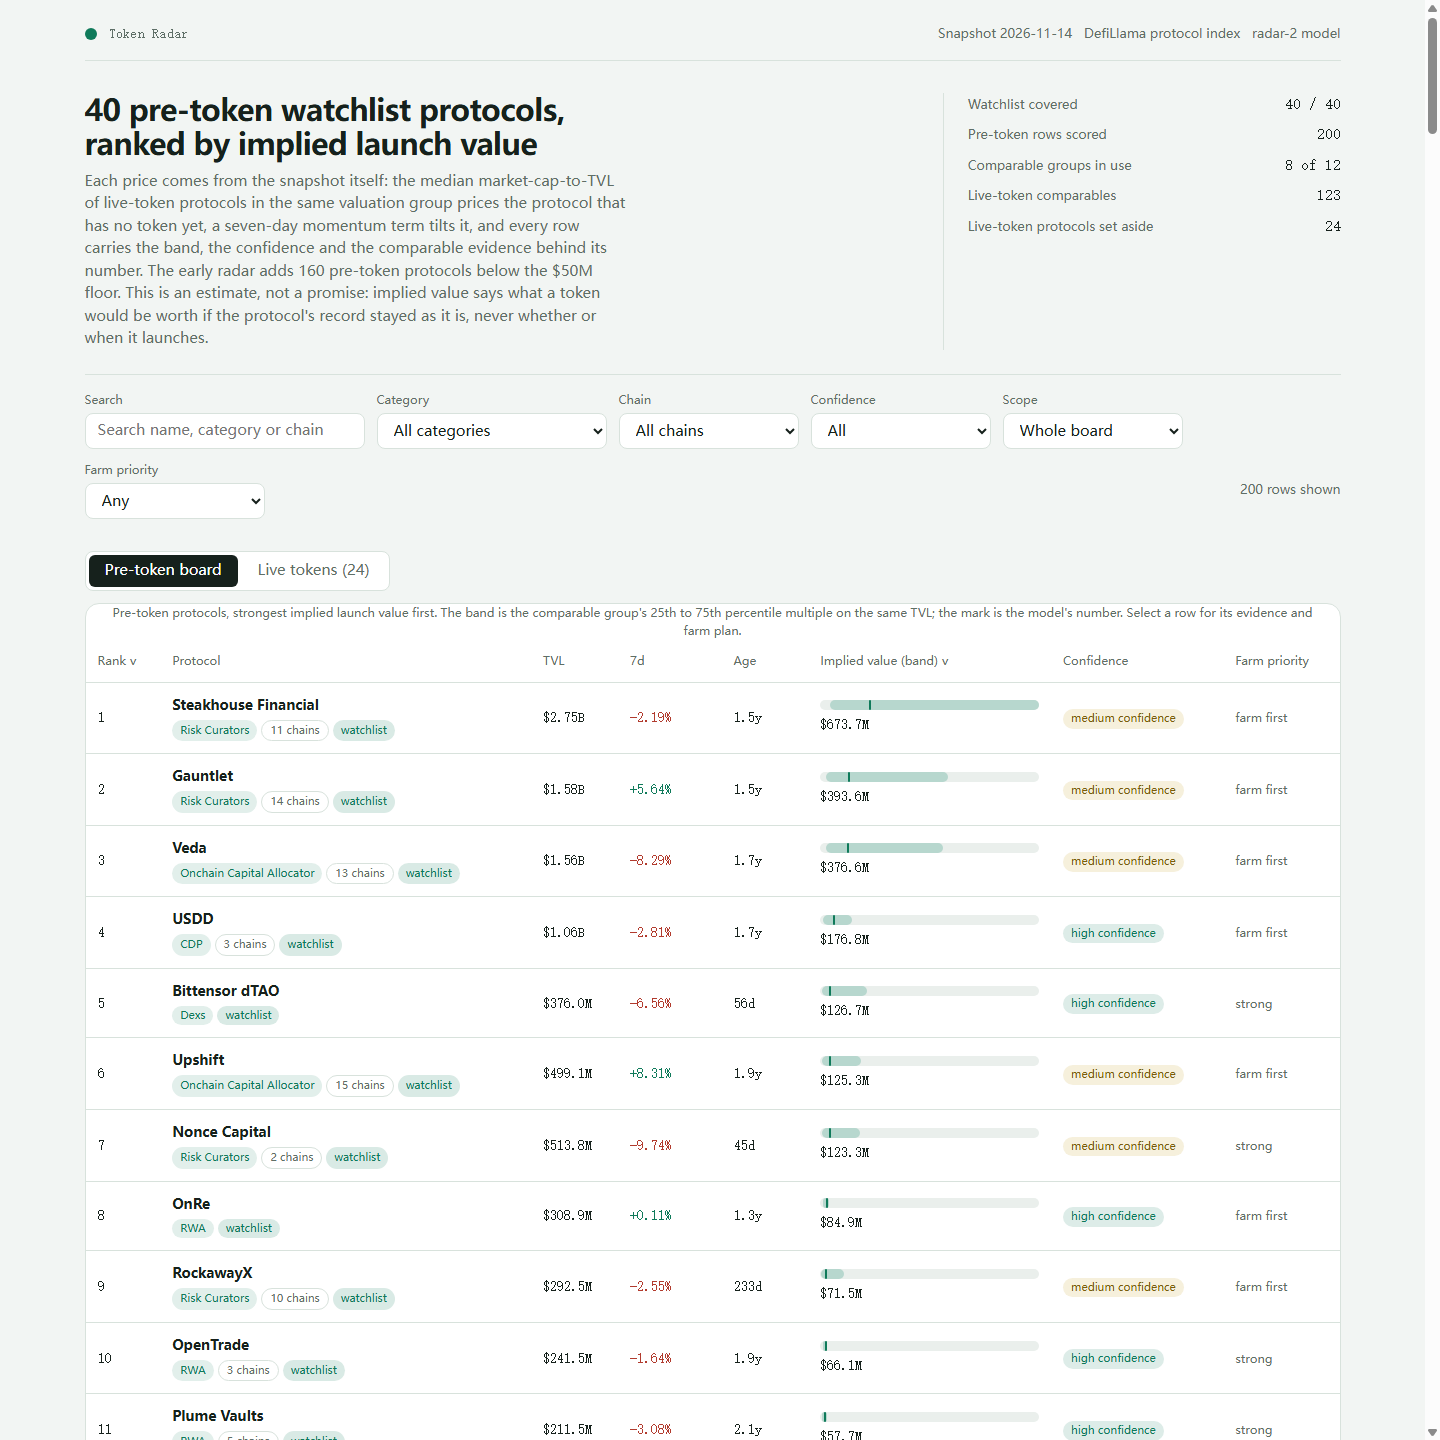
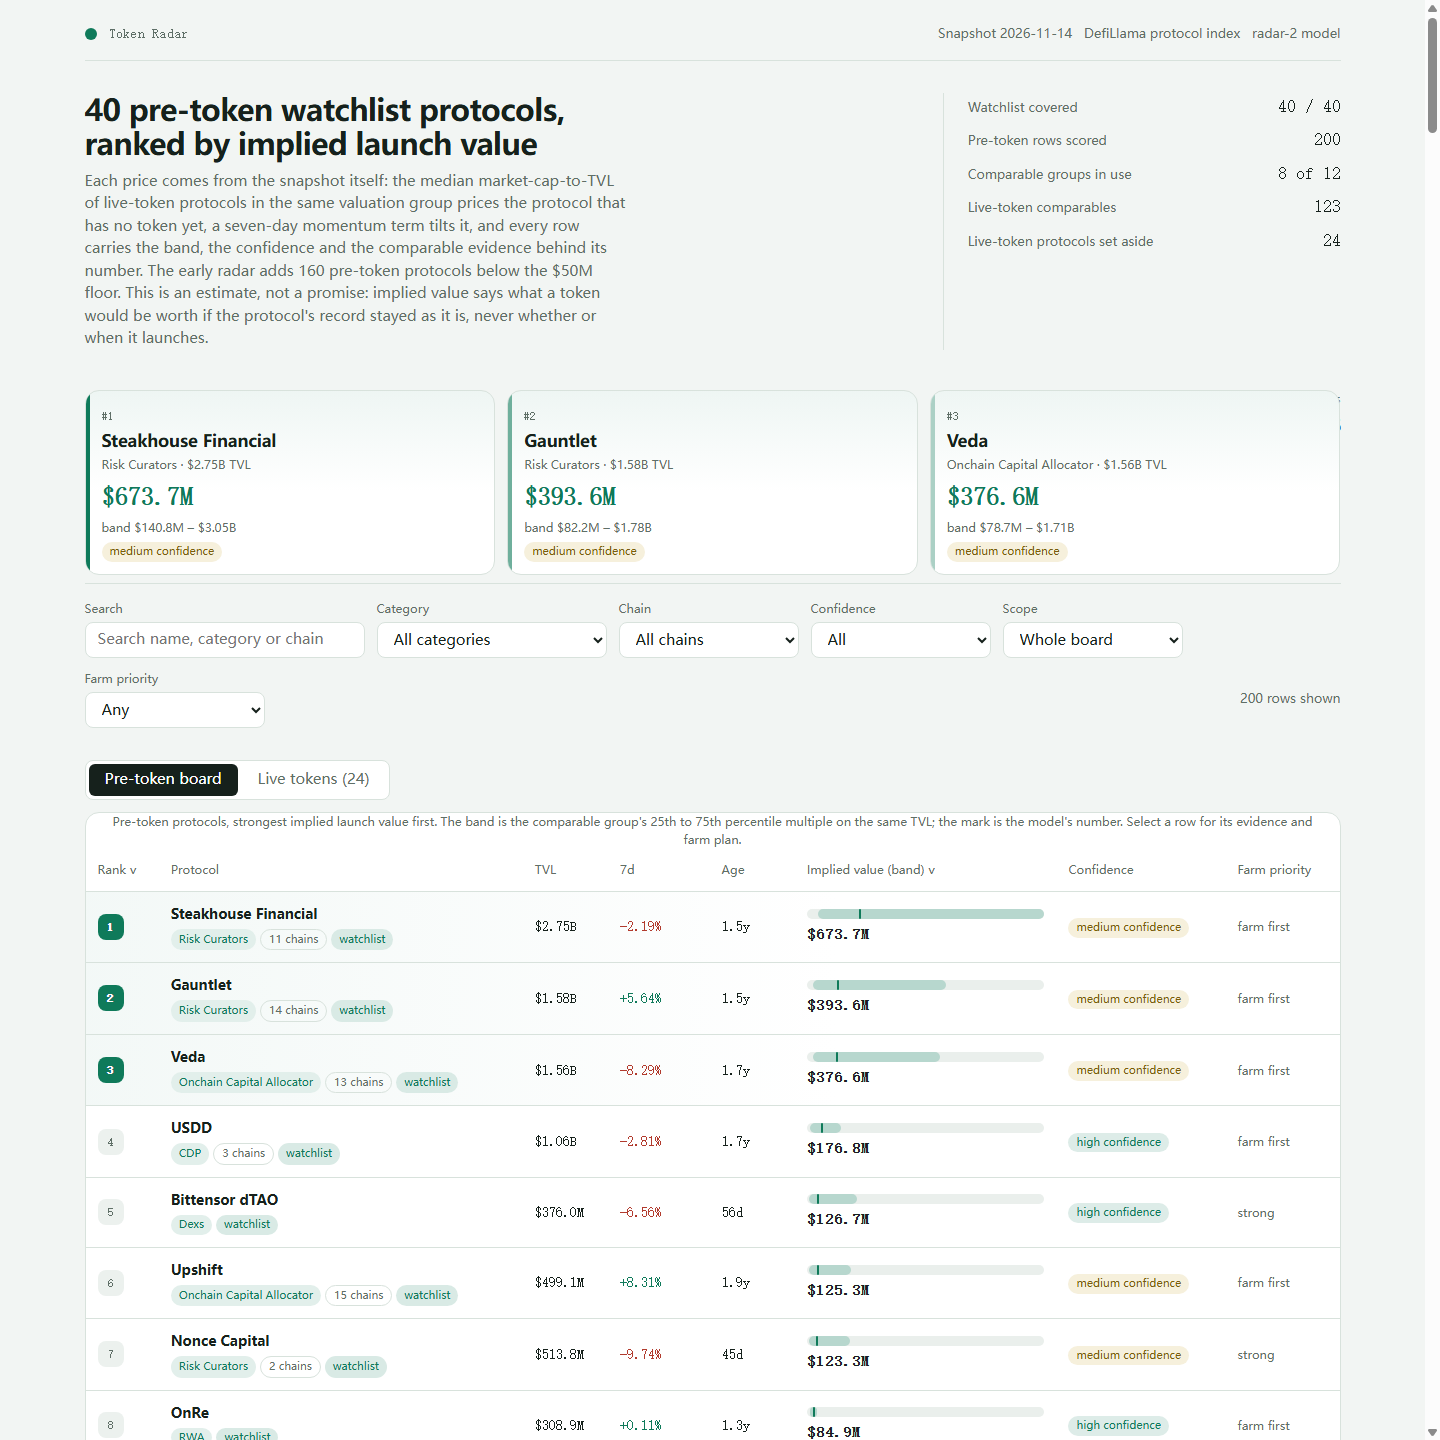
Podium hero cards, rank chips, and stronger number typography

diff --git a/dashboard/app.js b/dashboard/app.js
@@ -296,11 +296,12 @@
       var prioText = { first: 'farm first', strong: 'strong', watch: 'watch' }[r.farm_priority] || '';
       var tr = el('tr', {
         'data-selected': state.selected === r.slug ? 'true' : 'false',
+        'data-top': r.rank <= 3 ? 'true' : 'false',
         tabindex: '0',
         onclick: function () { openDetail(r.slug); },
         onkeydown: function (e) { if (e.key === 'Enter' || e.key === ' ') { e.preventDefault(); openDetail(r.slug); } }
       },
-        el('td', { class: 'num', text: String(r.rank) }),
+        el('td', { class: 'num' }, el('span', { class: 'rankchip' + (r.rank <= 3 ? ' podiumed' : ''), text: String(r.rank) })),
         el('td', null, el('div', { class: 'name' },
           el('b', { text: r.name }),
           el('span', { class: 'badgeline' },
@@ -388,6 +389,29 @@
 
   // The group overview: what each valuation group holds on the board, aggregated from the rows the
   // snapshot's own comparables priced. Every figure is summed from the rows, never hard-coded.
+  // The podium: the board's three strongest claims, the first thing a reader sees. Every figure is
+  // read straight off the board's own rows, never restated by hand.
+  function podiumPanel() {
+    var top = DATA.rows.slice(0, 3);
+    var sumImplied = DATA.rows.reduce(function (a, r) { return a + r.implied_value_usd; }, 0);
+    return el('section', { class: 'podium' },
+      el('div', { class: 'podium-sum' },
+        el('span', { class: 'sub', text: 'Implied value across all ' + DATA.board_size + ' pre-token rows' }),
+        el('b', { class: 'num', text: fmtUsd(sumImplied) })
+      ),
+      el('div', { class: 'podium-grid' }, top.map(function (r) {
+        return el('button', { class: 'podiumcard', type: 'button', onclick: function () { openDetail(r.slug); } },
+          el('span', { class: 'podium-rank', text: '#' + r.rank }),
+          el('b', { class: 'podium-name', text: r.name }),
+          el('span', { class: 'sub', text: (r.category || 'Other') + ' · ' + fmtUsd(r.tvl_usd) + ' TVL' }),
+          el('b', { class: 'podium-value num', text: fmtUsd(r.implied_value_usd) }),
+          el('span', { class: 'sub', text: 'band ' + fmtUsd(r.band.low_value_usd) + ' – ' + fmtUsd(r.band.high_value_usd) }),
+          el('span', { class: 'badge ' + (r.confidence === 'high' ? 'ok' : r.confidence === 'medium' ? 'mid' : 'warn'), text: r.confidence + ' confidence' })
+        );
+      }))
+    );
+  }
+
   function groupsPanel() {
     var byGroup = {};
     DATA.rows.forEach(function (r) {
@@ -562,6 +586,7 @@
     var shell = el('div', { class: 'shell' });
     shell.appendChild(header());
     shell.appendChild(lede());
+    shell.appendChild(podiumPanel());
     shell.appendChild(controls());
     shell.appendChild(el('div', { class: 'tabsbar' },
       el('button', { type: 'button', 'aria-pressed': state.tab === 'pre-token' ? 'true' : 'false', text: 'Pre-token board', onclick: function () { state.tab = 'pre-token'; render(); } }),

diff --git a/dashboard/app.css b/dashboard/app.css
@@ -169,3 +169,35 @@ tbody tr[data-selected="true"] { background: color-mix(in srgb, var(--accent) 8%
 .groupcard-grid span { color: var(--muted); }
 .groupcard-grid b { font-family: var(--font-num); font-weight: 500; text-align: right; }
 .exportrow { display: flex; align-items: center; gap: var(--step-3); flex-wrap: wrap; }
+
+/* The podium: the board's three strongest claims, above the fold, with the total in the corner. */
+.podium { position: relative; margin: var(--step-4) 0 var(--step-2); }
+.podium-sum { position: absolute; right: 0; top: 0; text-align: right; display: grid; gap: 0; }
+.podium-sum b { font-size: 22px; font-weight: 600; letter-spacing: -0.01em; }
+.podium-grid { display: grid; grid-template-columns: repeat(3, 1fr); gap: var(--step-3); }
+.podiumcard {
+  position: relative; overflow: hidden; display: grid; gap: 3px; justify-items: start; text-align: left;
+  padding: var(--step-4) var(--step-4) var(--step-3); border: 1px solid var(--border);
+  border-radius: var(--radius-panel); background:
+    linear-gradient(180deg, color-mix(in srgb, var(--accent) 7%, var(--surface)), var(--surface) 55%);
+}
+.podiumcard::before { content: ""; position: absolute; inset: 0 auto 0 0; width: 4px; background: var(--accent); }
+.podiumcard:nth-child(1)::before { background: var(--accent); }
+.podiumcard:nth-child(2)::before { background: color-mix(in srgb, var(--accent) 60%, var(--surface)); }
+.podiumcard:nth-child(3)::before { background: color-mix(in srgb, var(--accent) 35%, var(--surface)); }
+.podium-rank { font-family: var(--font-num); font-size: 12px; color: var(--muted); }
+.podium-name { font-size: 17px; font-weight: 600; letter-spacing: -0.01em; }
+.podium-value { font-size: 26px; font-weight: 700; letter-spacing: -0.02em; color: var(--accent); }
+.podiumcard .badge { margin-top: 2px; }
+.podiumcard:hover { border-color: var(--accent); }
+
+/* Rank chips and the implied number's weight: the board's two anchors a reader scans by. */
+.rankchip {
+  display: inline-flex; align-items: center; justify-content: center; min-width: 26px; height: 26px;
+  border-radius: 8px; font-size: 12px; background: color-mix(in srgb, var(--border) 50%, var(--surface)); color: var(--muted);
+}
+.rankchip.podiumed { background: var(--accent); color: var(--surface); font-weight: 600; }
+tr[data-top="true"] { background: linear-gradient(90deg, color-mix(in srgb, var(--accent) 5%, var(--surface)), transparent 60%); }
+.bandcell { min-width: 200px; }
+.bandcell .num { font-size: 15px; font-weight: 600; }
+.facts .fact b { font-size: 17px; }
